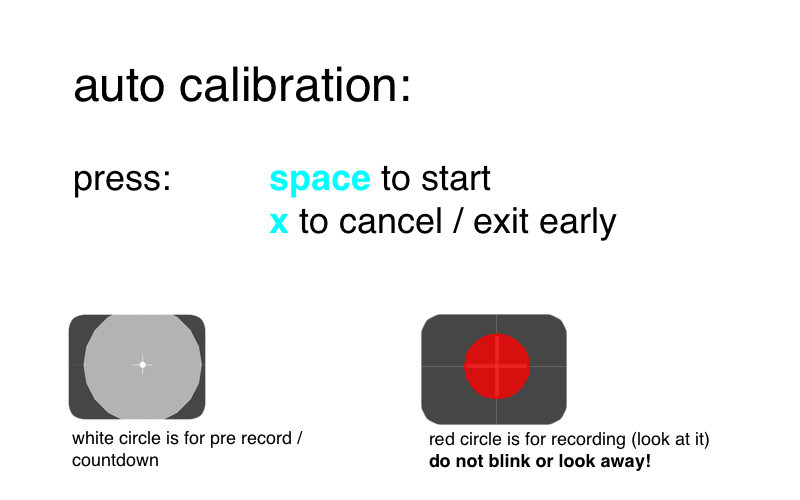
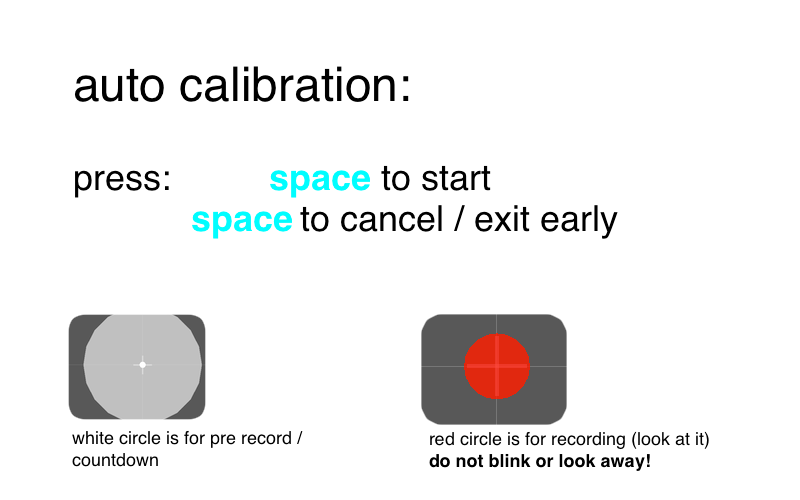
darker callibration scene. spacebar does everything in callibration scene. typing scene corrected for fps independence. darker background for all modes ( except drawing ).

Changed region(s): [[0.2188, 0.42, 0.7812, 0.48], [0.5625, 0.66, 0.6875, 0.81]]

diff --git a/eyeWriterTracker/src/calibration/calibrationManager.cpp b/eyeWriterTracker/src/calibration/calibrationManager.cpp
@@ -6,8 +6,8 @@ void calibrationManager::setup(){
 	calibrationInfo.loadImage("images/calibrationInfo.png");
 	font.loadFont("fonts/HelveticaNeueMed.ttf", 32);
 
-	nDivisionsWidth = 5;
-	nDivisionsHeight = 5;
+	nDivisionsWidth = 3;
+	nDivisionsHeight = 3;
 
 	nPosition = 0;
 	pos  = 0;
@@ -151,19 +151,19 @@ void calibrationManager::draw(){
 	if (!bPreAutomatic || !bAutomatic) panel.draw();
 
 	ofEnableAlphaBlending();
-	ofSetColor(70, 70, 70, (int) (255 - 255 *  menuEnergy));
+	ofSetColor(30, 30, 30, (int) (255 - 255 *  menuEnergy));
 	ofRect(0,0,ofGetWidth(), ofGetHeight());
 
-	ofSetColor(255, 255, 255, 40);
-	for (int i = 0; i < nDivisionsWidth; i++){
-		float xLine = calibrationRectangle.x + ((float)calibrationRectangle.width / (float)(nDivisionsWidth-1)) * i;
-		ofLine(xLine, calibrationRectangle.y,xLine, calibrationRectangle.y + calibrationRectangle.height);
-	}
-
-	for (int i = 0; i < nDivisionsHeight; i++){
-		float yLine = calibrationRectangle.y + calibrationRectangle.height - ((float)calibrationRectangle.height / (float)(nDivisionsHeight-1)) * i;
-		ofLine(calibrationRectangle.x,yLine, calibrationRectangle.x + calibrationRectangle.width,yLine);
-	}
+//	ofSetColor(255, 255, 255, 40);
+//	for (int i = 0; i < nDivisionsWidth; i++){
+//		float xLine = calibrationRectangle.x + ((float)calibrationRectangle.width / (float)(nDivisionsWidth-1)) * i;
+//		ofLine(xLine, calibrationRectangle.y,xLine, calibrationRectangle.y + calibrationRectangle.height);
+//	}
+//
+//	for (int i = 0; i < nDivisionsHeight; i++){
+//		float yLine = calibrationRectangle.y + calibrationRectangle.height - ((float)calibrationRectangle.height / (float)(nDivisionsHeight-1)) * i;
+//		ofLine(calibrationRectangle.x,yLine, calibrationRectangle.x + calibrationRectangle.width,yLine);
+//	}
 
 	//-----------------------------------------------------------------------
 	//-----------------------------------------------------------------------
@@ -200,8 +200,10 @@ void calibrationManager::draw(){
 				ofCircle(xp, yp, 5);
 
 			} else {
+				ofNoFill();
 				ofSetColor(255, 255, 255, 150);
 				ofCircle(xp, yp, 200 - 200* autoPct);
+				ofFill();
 			}
 		}
 
@@ -278,15 +280,11 @@ void calibrationManager::keyPressed(int key) {
 			bPreAutomatic = false;
 			start();
 		}
-	}
-
-	if (bPreAutomatic == false && !bAmInAutodrive) { 
+	}else if (bPreAutomatic == false && !bAmInAutodrive) { 
 		if (key == ' '){
 			bPreAutomatic = true;
 		}
-	}
-
-	if (key == 'x'){
+	}else if (key == ' '){
 		clear();
 		stop();
 	}

diff --git a/eyeWriterTracker/src/testApp.cpp b/eyeWriterTracker/src/testApp.cpp
@@ -28,6 +28,7 @@ void testApp::setup(){
 	
 	
 	BT.setup("catch me!", 50,50,180,180);
+	BT.setRetrigger(true);
 	
 	timeSince = 0;
 	bMouseSimulation = false;
@@ -40,7 +41,7 @@ void testApp::setup(){
 void testApp::update(){
 
 //	ofBackground(70,70,70);
-	ofBackground(72,72,72);
+	ofBackground(30,30,30);
 	
 	// update the tracking manager (and internally, its input manager)
 	TM.update();

diff --git a/eyeWriterTracker/src/otherScenes/typingScene.cpp b/eyeWriterTracker/src/otherScenes/typingScene.cpp
@@ -19,7 +19,7 @@ void typingScene::setup(){
 	
 	franklinBookSmall.loadFont("fonts/HelveticaNeueMed.ttf", 16);
 	carriageReturnCounter = 0;
-	buttonCount=390;
+	//buttonCount=390;
 	ofBackground(255, 255, 255);
 	shiftOn = false;
 	
